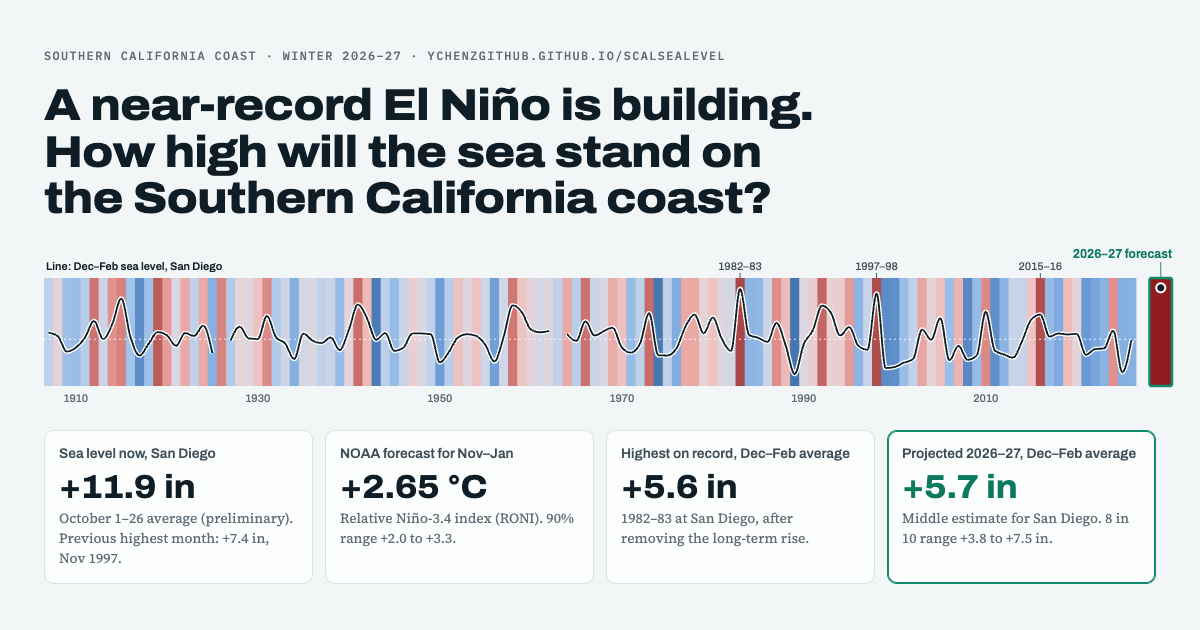
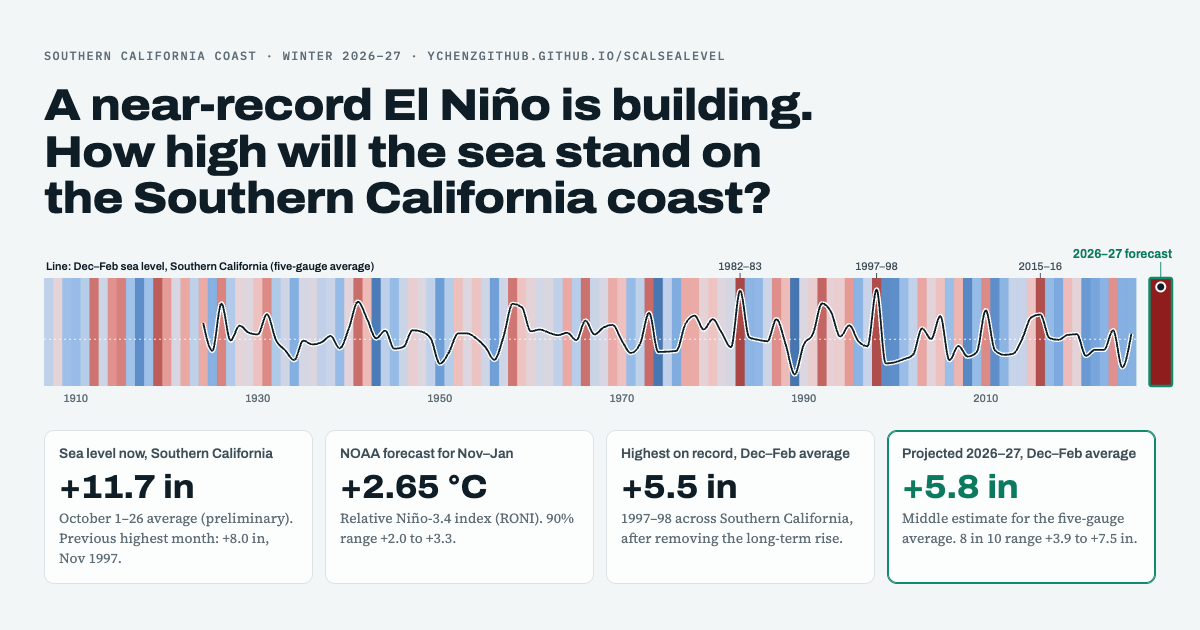
Open the page on the regional average
Default gauge is now the five-gauge Southern California average, listed first
in the gauge picker. Reword sentences that read awkwardly for the region
(record and projection tiles, king-tide, extremes and top-10 notes, October
record), show the monthly chart's date range in full, and refresh the
link-preview image and its description.

diff --git a/assets/app.js b/assets/app.js
@@ -44,7 +44,7 @@
   const MEAS_SHORT = { djf: 'Dec–Feb average', ndjfm: 'Nov–Mar average', peak: 'highest month, Oct–Mar', hmax: 'highest water, Nov–Mar' };
 
   const state = {
-    gauge: 'sd', measure: 'djf', period: 'modern', mu: FC.ndj_median, sigma: FC.ndj_sigma, extrap: 'continue',
+    gauge: 'reg', measure: 'djf', period: 'modern', mu: FC.ndj_median, sigma: FC.ndj_sigma, extrap: 'continue',
     units: 'in', alt: 0, altRel: false, hov: '1997', top: 'obs', fall: true,
   };
 
@@ -57,7 +57,7 @@
   const css = (n) => getComputedStyle(document.documentElement).getPropertyValue(n).trim();
   const oneIn = (p) => (p < 0.02 ? 'fewer than 1 in 50' : p > 0.5 ? `${pct(p)} of` : `about 1 in ${Math.round(1 / p)}`);
   const ordinal = (n) => { const s = ['th', 'st', 'nd', 'rd'], v = n % 100; return n + (s[(v - 20) % 10] || s[v] || s[0]); };
-  const gName = (id = state.gauge) => (id === 'reg' ? 'Southern California (average of gauges)' : GAUGE[id].name);
+  const gName = (id = state.gauge) => (id === 'reg' ? 'Southern California (five-gauge average)' : GAUGE[id].name);
   const gAt = (id = state.gauge) => (id === 'reg' ? 'across Southern California' : `at ${GAUGE[id].name}`);
   const MONTHS = ['Jan', 'Feb', 'Mar', 'Apr', 'May', 'Jun', 'Jul', 'Aug', 'Sep', 'Oct', 'Nov', 'Dec'];
   const OCT_THROUGH = D.so_far.reg ? +D.so_far.reg.through.slice(8) : null;   // last day of preliminary October data
@@ -480,10 +480,10 @@
     }
     $('t-rec-label').textContent = `Highest on record, ${MEAS_SHORT[state.measure]}`;
     $('t-rec').textContent = fmt(st.rec.v);
-    $('t-rec-note').textContent = `${sLabel(st.rec.Y)} at ${gName()}${wlSuffix()}${isWL() ? ', adjusted to today’s sea level' : ', after removing the long-term rise'}. Records since ${sLabel(st.m.y0)}.`;
+    $('t-rec-note').textContent = `${sLabel(st.rec.Y)} ${gAt()}${wlSuffix()}${isWL() ? ', adjusted to today’s sea level' : ', after removing the long-term rise'}. Records since ${sLabel(st.m.y0)}.`;
     $('t-proj-label').textContent = `Projected 2026–27, ${MEAS_SHORT[state.measure]}`;
     $('t-proj').textContent = fmt(st.med);
-    $('t-proj-note').textContent = `Middle estimate for ${gName()}${wlSuffix()}. 8 in 10 range ${fmtBare(st.q10)} to ${fmt(st.q90)}. ${isWL() ? '' : 'Normal is 0.'}`;
+    $('t-proj-note').textContent = `Middle estimate for ${state.gauge === 'reg' ? 'the five-gauge average' : gName()}${wlSuffix()}. 8 in 10 range ${fmtBare(st.q10)} to ${fmt(st.q90)}. ${isWL() ? '' : 'Normal is 0.'}`;
   }
 
   function renderOutlook(st) {
@@ -733,7 +733,7 @@
       if (cls === 'dash') i.style.borderColor = col; else i.style.background = col;
       sp.append(i, document.createTextNode(lab)); leg.append(sp);
     });
-    const alt = kg !== state.gauge ? ` (${gName()} has no tide predictions, so the nearest running gauge is shown)` : '';
+    const alt = kg !== state.gauge ? ` (${state.gauge === 'reg' ? 'the regional average has no tide predictions of its own' : `${gName()} has no tide predictions`}, so ${GAUGE[kg].name} is shown)` : '';
     $('king-title').textContent = `Daily highest tide at ${Gk.name}, November 2026 to March 2027`;
     $('king-intro').textContent = `Tide tables are calculated from the average sea level of 1983–2001. Since then the sea at ${Gk.name} has risen about ${both(off)}, and this winter El Niño is likely to add about ${both(qa.q50)} more (middle estimate for the November–March average). Both ride on top of every high tide in the table.` +
       (octA != null ? ` Monthly sea level changes slowly, so the November and December king tides could see something closer to this October's ${fA(octA)}; the dashed line shows that case.` : '');
@@ -832,7 +832,7 @@
   function renderScatter(st) {
     const el = $('scatter');
     const H = el.clientWidth < 560 ? 320 : 400;
-    const { svg, w, h } = prep('scatter', H, `Winter sea level versus El Niño strength at ${gName()}`);
+    const { svg, w, h } = prep('scatter', H, `Winter sea level versus El Niño strength ${gAt()}`);
     const ml = 48, mr = 14, mt = 22, mb = 40;
     const rows = st.rows, m = st.m;
     const bd = bands();
@@ -961,7 +961,7 @@
     const rows = st.rows;
     const el = $('ts');
     const H = el.clientWidth < 560 ? 230 : 280;
-    const { svg, w, h } = prep('ts', H, `Winter values by year at ${gName()}, with the 2026–27 projection`);
+    const { svg, w, h } = prep('ts', H, `Winter values by year ${gAt()}, with the 2026–27 projection`);
     const ml = 46, mr = 12, mt = 16, mb = 26;
     const c = (v) => conv(v);
     const yrs = d3.range(st.m.y0, st.m.y1 + 1);
@@ -1016,7 +1016,7 @@
     const g = state.gauge;
     const el = $('traj');
     const H = el.clientWidth < 560 ? 300 : 360;
-    const { svg, w, h } = prep('traj', H, `Monthly sea level through past strong El Niños and 2026 at ${gName()}`);
+    const { svg, w, h } = prep('traj', H, `Monthly sea level through past strong El Niños and 2026 ${gAt()}`);
     const ml = 46, mr = 16, mt = 18, mb = 42;
     const n = 18;
     const x = d3.scalePoint().domain(d3.range(n)).range([ml, w - mr]);
@@ -1093,7 +1093,7 @@
       const list = comp.length > 1 ? `${comp.slice(0, -1).join(', ')} and ${comp[comp.length - 1]}` : comp.join('');
       $('event-intro').textContent = `${base} So far 2026 is on the same path: ${gAt(g)}, September 2026 averaged ${fA(s26)} above normal, compared with ${list}` +
         `${oct != null ? `. October 1–${OCT_THROUGH} averaged ${fA(oct)} (preliminary)` : ''}. September 2015 was raised by both the developing El Niño and a marine heat wave off the coast.` +
-        (() => { const pm = pastMax(g, ALLM); return oct != null && pm && oct > pm.v ? ` This October is the highest of any month at this gauge since ${GAUGE[g] ? GAUGE[g].first.slice(0, 4) : '1923'}; the previous monthly record was ${fA(pm.v)}, in ${MONTHS[pm.m - 1]} ${pm.y}.` : ''; })();
+        (() => { const pm = pastMax(g, ALLM); return oct != null && pm && oct > pm.v ? ` This October is the highest of any month ${g === 'reg' ? 'in the regional average' : 'at this gauge'} since ${GAUGE[g] ? GAUGE[g].first.slice(0, 4) : '1923'}; the previous monthly record was ${fA(pm.v)}, in ${MONTHS[pm.m - 1]} ${pm.y}.` : ''; })();
     } else $('event-intro').textContent = `${base} This gauge has no 2026 data; choose a running gauge to compare.`;
     $('traj-title').textContent = `Sea level, month by month, ${gAt(g)}`;
     $('traj-sub').textContent = `Monthly sea level compared with normal, from January of each El Niño year to the following June. Gray: strong El Niños since 1951 (relative index +1.5 °C or more) and 2023–24. The shaded columns are December–February.`;
@@ -1219,7 +1219,7 @@
           ...gs.map((gr) => ({ value: gr.mean[i] == null ? '–' : fA(gr.mean[i]), label: ' ' + gr.lab, color: gr.col }))]);
       })
       .on('pointerleave', () => { cross.style('opacity', 0); hideTip(); });
-    $('monthly-sub').textContent = `${gName()}, ${y0 - 1}–${String(m.y1).slice(2)} and 2026. Average sea level in each month from July to June, grouped by that winter's El Niño–La Niña state (number of winters in parentheses), compared with normal.`;
+    $('monthly-sub').textContent = `${gName()}, July ${y0 - 1} to June ${m.y1}, plus 2026–27 so far. Average sea level in each month from July to June, grouped by that winter's El Niño–La Niña state (number of winters in parentheses), compared with normal.`;
   }
   function renderLag() {
     const g = state.gauge;
@@ -1296,7 +1296,7 @@
     }
     strip('ext1', 'h', `Highest water of the winter (${uW()} above MHHW)`, toW, (v) => (US() ? f2(v) : f0(v)), F.minor);
     strip('ext2', 'days', 'Days at or above the minor flood level', (v) => v, (v) => f1(v));
-    $('ext-sub').textContent = `${P.name}${pid !== state.gauge ? ' (the nearest gauge with a long hourly record)' : ''}, November–March, winters ${periodLabel(m)}, every winter adjusted to today's sea level. Dots are winters; bars and numbers show group averages. NOAA's minor flood level here is ${fW(F.minor)} above MHHW.`;
+    $('ext-sub').textContent = `${P.name}${pid !== state.gauge ? (state.gauge === 'reg' ? ' (the regional average has no hourly record of its own)' : ' (the nearest gauge with a long hourly record)') : ''}, November–March, winters ${periodLabel(m)}, every winter adjusted to today's sea level. Dots are winters; bars and numbers show group averages. NOAA's minor flood level here is ${fW(F.minor)} above MHHW.`;
   }
   function renderTop() {
     const pid = hourlyFor(state.gauge, (g) => !!D.top[g]);
@@ -1333,7 +1333,7 @@
     const nEN = L.filter((e) => (e.x != null ? e.x : e.Y === 2027 ? state.mu : -9) >= 0.5).length;
     const nSummer = L.filter((e) => { const mo = +e.t.slice(5, 7); return mo >= 5 && mo <= 9; }).length;
     $('top-title').textContent = `The 10 highest water levels at ${P.name}`;
-    $('top-sub').textContent = `Hourly water levels since ${P.hourly ? P.hourly[0] : ''}, above MHHW, at least 3 days apart${pid !== state.gauge ? ` (nearest gauge with hourly data to ${gName()})` : ''}. ${nEN} of the 10 came during El Niño years and ${nSummer} on summer king tides. Hover a bar for its parts: the predicted tide, how much higher the sea stood that month than the tide table assumes, and the storm surge of the moment.`;
+    $('top-sub').textContent = `Hourly water levels since ${P.hourly ? P.hourly[0] : ''}, above MHHW, at least 3 days apart${pid !== state.gauge ? ` (at ${P.name}; ${state.gauge === 'reg' ? 'the regional average has no hourly record of its own' : `the nearest gauge with hourly data to ${gName()}`})` : ''}. ${nEN} of the 10 came during El Niño years and ${nSummer} on summer king tides. Hover a bar for its parts: the predicted tide, how much higher the sea stood that month than the tide table assumes, and the storm surge of the moment.`;
   }
 
   // ------------------------------------------------------------------ along the coast: map and Hovmöller
@@ -1501,7 +1501,7 @@
     if (!box) return;
     const short = { reg: 'Regional average', lb: 'Long Beach', en: 'Ensenada, Mexico' };
     const years = (g) => (g.kind === 'active' || g.kind === 'region' ? `since ${g.first.slice(0, 4)}` : `${g.first.slice(0, 4)}–${g.last.slice(0, 4)}`);
-    const groups = [['Running today', ['sd', 'lj', 'la', 'sm', 'sb', 'reg']], ['Past records only', ['nb', 'lb', 'ri', 'ph', 'en']]];
+    const groups = [['Running today', ['reg', 'sd', 'lj', 'la', 'sm', 'sb']], ['Past records only', ['nb', 'lb', 'ri', 'ph', 'en']]];
     for (const [lab, ids] of groups) {
       const grp = document.createElement('div'); grp.className = 'gp-group';
       const h = document.createElement('p'); h.className = 'gp-lab'; h.textContent = lab; grp.append(h);

diff --git a/index.html b/index.html
@@ -19,12 +19,12 @@
 <meta property="og:image:type" content="image/png">
 <meta property="og:image:width" content="1200">
 <meta property="og:image:height" content="630">
-<meta property="og:image:alt" content="Title of the page above stripes showing El Niño and La Niña strength each winter since 1906, with San Diego winter sea level drawn on top, and four summary tiles.">
+<meta property="og:image:alt" content="Title of the page above stripes showing El Niño and La Niña strength each winter since 1906, with winter sea level averaged over five Southern California tide gauges drawn on top, and four summary tiles.">
 <meta name="twitter:card" content="summary_large_image">
 <meta name="twitter:title" content="SoCal El Niño Sea Level Outlook">
 <meta name="twitter:description" content="A near-record El Niño is building. How high will the sea stand on the Southern California coast? An interactive outlook built from tide-gauge records back to 1906.">
 <meta name="twitter:image" content="https://ychenzgithub.github.io/ScalSeaLevel/assets/social-card.png">
-<meta name="twitter:image:alt" content="Title of the page above stripes showing El Niño and La Niña strength each winter since 1906, with San Diego winter sea level drawn on top, and four summary tiles.">
+<meta name="twitter:image:alt" content="Title of the page above stripes showing El Niño and La Niña strength each winter since 1906, with winter sea level averaged over five Southern California tide gauges drawn on top, and four summary tiles.">
 <link rel="preconnect" href="https://fonts.googleapis.com">
 <link rel="preconnect" href="https://fonts.gstatic.com" crossorigin>
 <link rel="stylesheet" href="https://fonts.googleapis.com/css2?family=Archivo:wdth,wght@62..125,100..900&family=IBM+Plex+Mono:wght@400;500&family=Source+Serif+4:ital,opsz,wght@0,8..60,400;0,8..60,600;1,8..60,400&display=swap">
